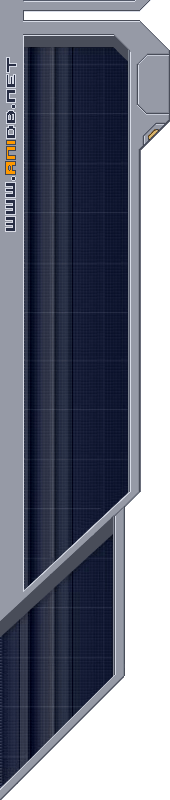
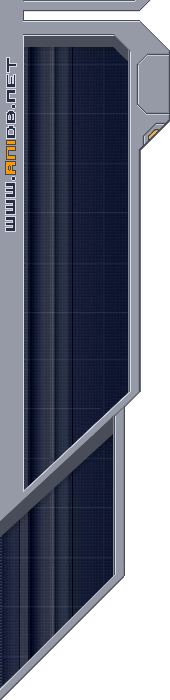
git-svn-id: svn://dev.anidb.net/svn/trunk@1053 bed53a55-4da3-433c-baf4-d4f70f2fd34a

diff --git a/css-dev/anidbstyle/layout.css b/css-dev/anidbstyle/layout.css
@@ -4,7 +4,7 @@
 	top: 94px;
 	left: 0;
 	width: 142px;
-	height: 800px;
+	height: 700px;
 	padding: 51px 0px 0px 28px;
 	background: transparent url(../anidbstyle/images/menuback.png) no-repeat top left;
 }
@@ -23,6 +23,13 @@
 	line-height: 1.2;
 	width: 96px;
 	margin-bottom: 10px;
+}
+
+#layout-menu li.mynotifies, #layout-menu li.mywishlist,
+#layout-menu li.myreviews, #layout-menu li.mydbentries,
+#layout-menu li.mycreqs, #layout-menu li.up2date
+{
+	display: none;
 }
 
 #layout-menu ul.main, #layout-menu li.ed2kdump, #layout-menu ul.lists
